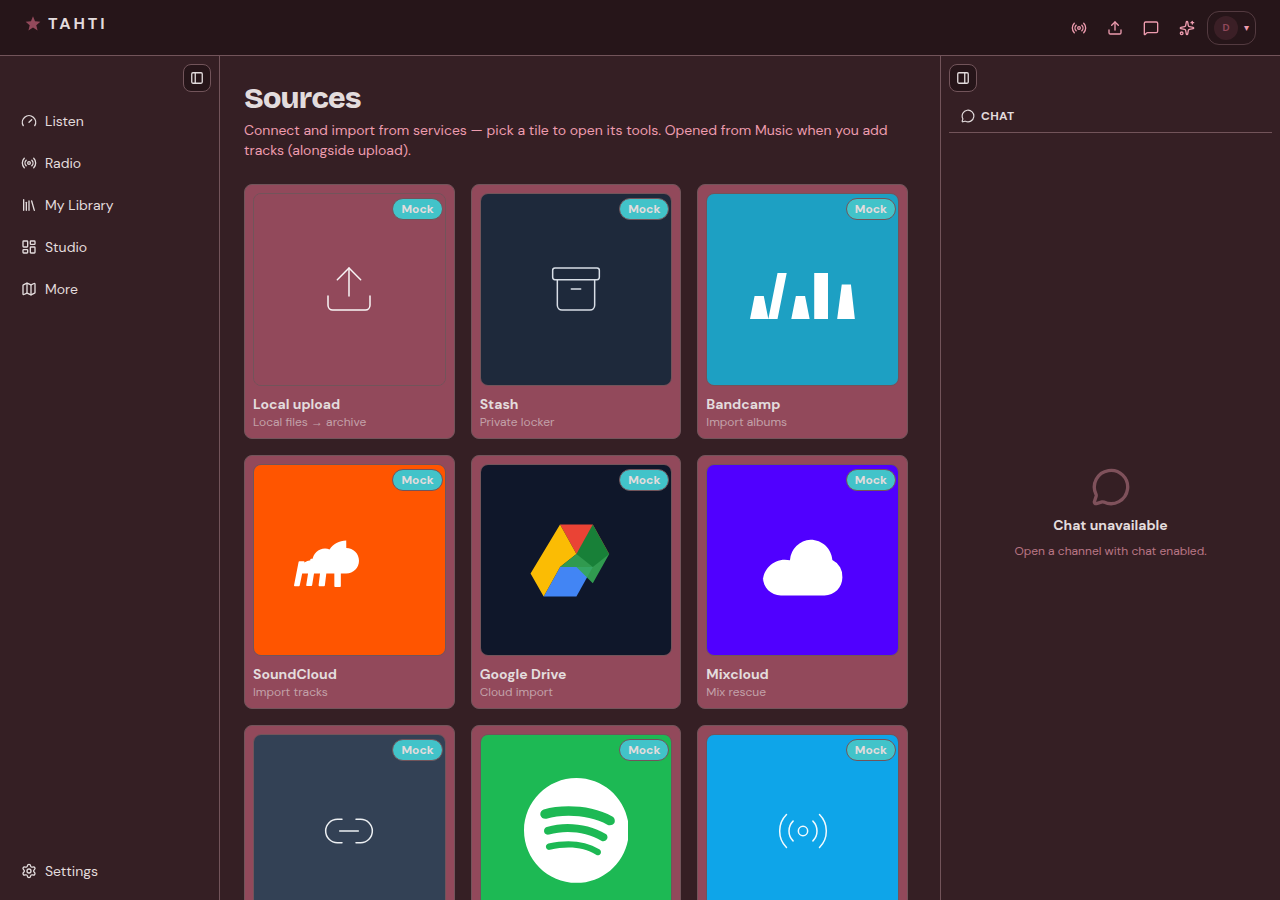
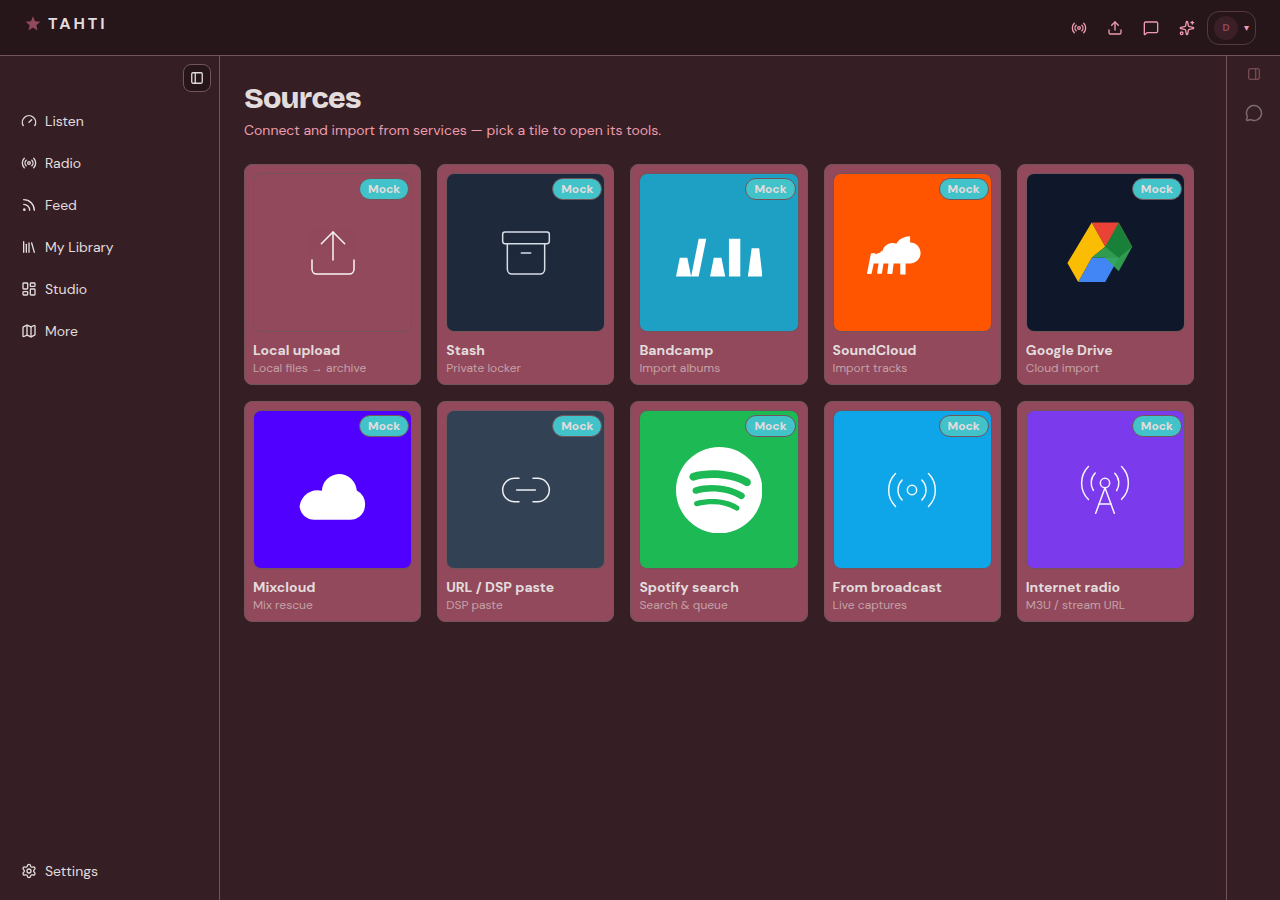
Redesign Sources hub with shared page chrome
Switch the outer page to PageFrame/PageHeader (matches Listen/Radio/
Feed instead of a bespoke header) and drop two lines of dev jargon:
"Opened from Music when you add tracks" and "Status source: mock" —
the existing status chip already conveys connection state. Grid, tabs,
and connect/import flows unchanged.

Claude-Session: https://claude.ai/code/session_018vrS4tCejeHDXryaE1R75F

diff --git a/packages/tahti-web/src/views/SourcesView.tsx b/packages/tahti-web/src/views/SourcesView.tsx
@@ -41,6 +41,7 @@ import {
   type SpotifySearchTrack,
   type StashFile,
 } from '../api/sources';
+import { PageFrame, PageHeader } from '../components/PageHeader';
 import {
   SourceServiceIcon,
   sourceTileSubtitle,
@@ -204,28 +205,22 @@ export function SourcesView({ tabId }: { tabId?: IntegrationId }) {
   };
 
   return (
-    <div className="mx-auto flex max-w-5xl flex-col gap-6">
-      <div>
-        <h1 className="font-display text-3xl font-extrabold tracking-tight">
-          Sources
-        </h1>
-        <p className="text-foreground-secondary mt-1 text-sm">
-          Connect and import from services — pick a tile to open its tools.
-          Opened from Music when you add tracks (alongside upload).
-        </p>
-        {!user && (
-          <p className="text-foreground-secondary mt-2 text-xs">
+    <PageFrame>
+      <PageHeader
+        title="Sources"
+        subtitle="Connect and import from services — pick a tile to open its tools."
+        meta={
+          !user ? (
             <button
               type="button"
               className="underline-offset-2 hover:underline"
               onClick={() => useAuthModalStore.getState().open('login')}
             >
-              Sign in
-            </button>{' '}
-            to connect OAuth sources.
-          </p>
-        )}
-      </div>
+              Sign in to connect OAuth sources.
+            </button>
+          ) : undefined
+        }
+      />
 
       {!selected && (
         <CardGrid
@@ -305,9 +300,6 @@ export function SourcesView({ tabId }: { tabId?: IntegrationId }) {
                   );
                 })()}
               </div>
-              <p className="text-foreground-secondary mt-1 text-xs tracking-wide uppercase">
-                Status source: {meta}
-              </p>
               <p className="text-foreground-secondary mt-2 text-sm">
                 {def.description}
               </p>
@@ -770,6 +762,6 @@ export function SourcesView({ tabId }: { tabId?: IntegrationId }) {
           )}
         </>
       )}
-    </div>
+    </PageFrame>
   );
 }

diff --git a/packages/tahti-web/UI-REDESIGN-WORKLOG.md b/packages/tahti-web/UI-REDESIGN-WORKLOG.md
@@ -33,7 +33,7 @@ Workflow rules: one page at a time; do not advance until user approves.
 | 19 | Updates / newsletter | `/studio/updates` | **approved** | `docs/redesign-shots/studio-updates-v1.png` |
 | 20 | Revenue / Connect | `/studio/revenue` | **approved** | `docs/redesign-shots/studio-revenue-v1.png` |
 | 21 | Stash | `/studio/stash` | **approved** | `docs/redesign-shots/studio-stash-v1.png` |
-| 22 | Sources hub | `/sources` | pending | |
+| 22 | Sources hub | `/sources` | **approved** | `docs/redesign-shots/sources-v1.png`, `docs/redesign-shots/sources-detail-v1.png` |
 | 23 | Settings — account | `/settings/account` | pending | |
 | 24 | Settings — artist | `/settings/artist` (etc.) | pending | |
 | 25 | Settings — money / fan tiers | `/settings/money` | pending | |
@@ -309,6 +309,21 @@ Port into Nuclear admin shell later. Inventory from prod `admin-nav`:
 - No behavior changes — same upload/download/delete handlers
 
 **Screenshot:** `docs/redesign-shots/studio-stash-v1.png`
+
+**Status:** approved.
+
+### 2026-08-17 — Page 22 Sources hub v1 (`in-review`)
+
+**Goal:** Lighter pass than most pages — the overview grid and per-source detail panels already had good Nuclear treatment (service-branded tiles, status chips) from an earlier "plugin-store style" pass. Mainly a chrome/jargon cleanup.
+
+**Changes:**
+
+- Outer page switched from a raw `<h1>` block to the shared `PageFrame`/`PageHeader` (matches Listen/Radio/Feed instead of a bespoke header)
+- Dropped "Opened from Music when you add tracks (alongside upload)" implementation detail from the subtitle
+- Removed the "Status source: mock" debug line from the per-source detail header — the existing status chip (Mock/Connected/Needs auth/etc.) already conveys this
+- No behavior changes — grid, tabs, connect/disconnect, and import flows untouched
+
+**Screenshots:** `docs/redesign-shots/sources-v1.png` (overview grid), `docs/redesign-shots/sources-detail-v1.png` (SoundCloud detail tab)
 
 **Status:** approved.
 
